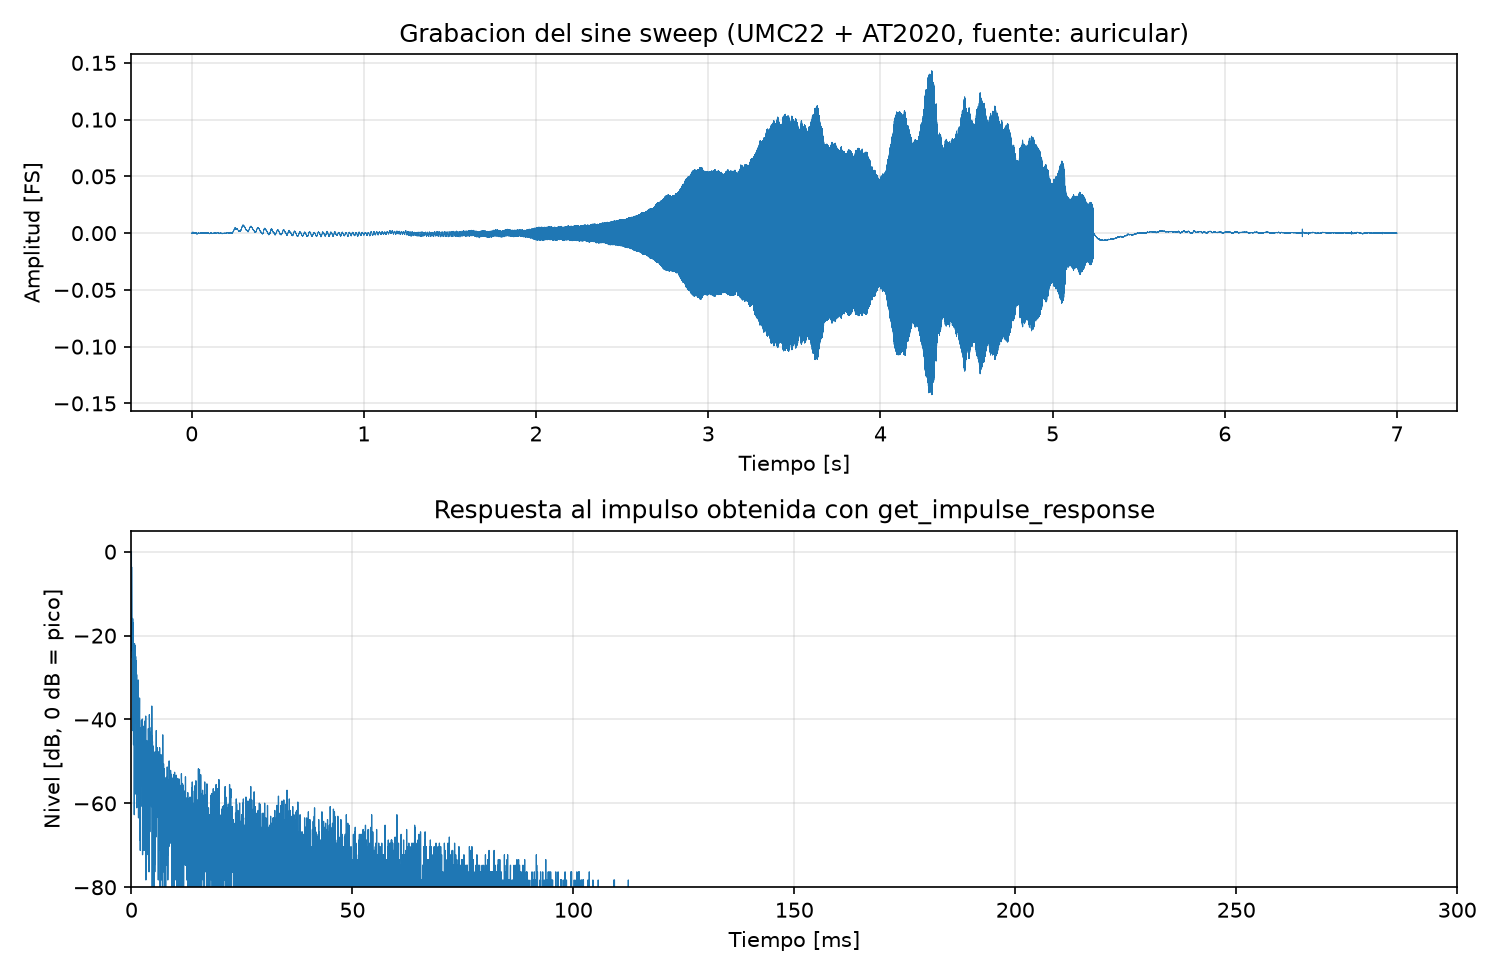
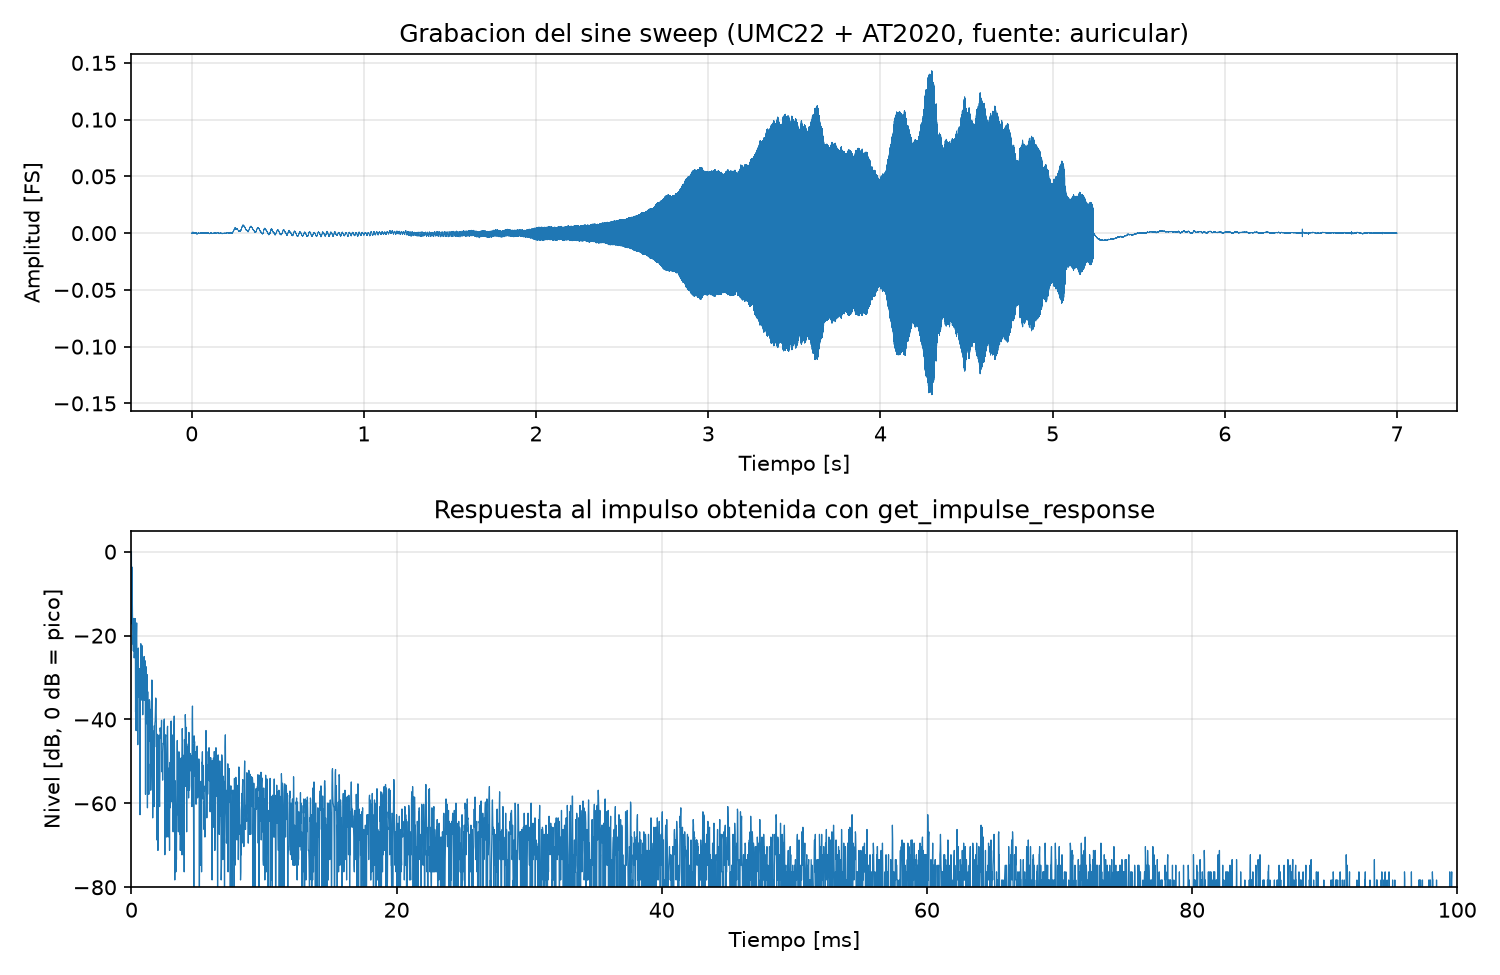
docs: acercar el eje de tiempo del grafico de la RI a 100 ms

Changed region(s): [[0.0613, 0.6769, 0.9813, 0.9538]]

diff --git a/graficar_prueba_real.py b/graficar_prueba_real.py
@@ -33,7 +33,7 @@ ax2.plot(t_ri, ri_db, linewidth=0.6)
 ax2.set_title("Respuesta al impulso obtenida con get_impulse_response")
 ax2.set_xlabel("Tiempo [ms]")
 ax2.set_ylabel("Nivel [dB, 0 dB = pico]")
-ax2.set_xlim(0, 300)
+ax2.set_xlim(0, 100)
 ax2.set_ylim(-80, 5)
 ax2.grid(True, alpha=0.3)
 
